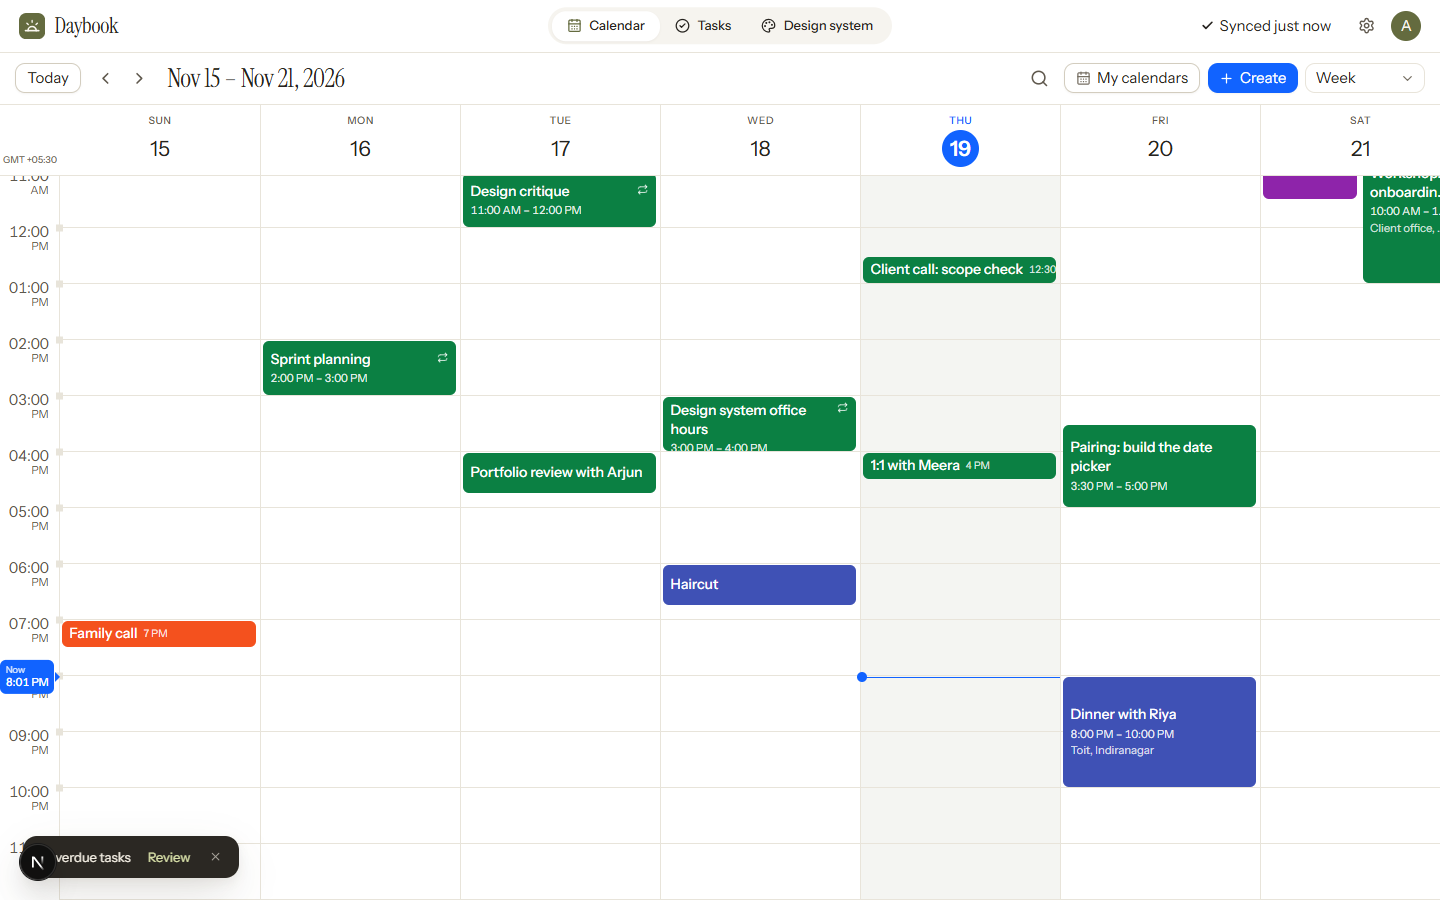
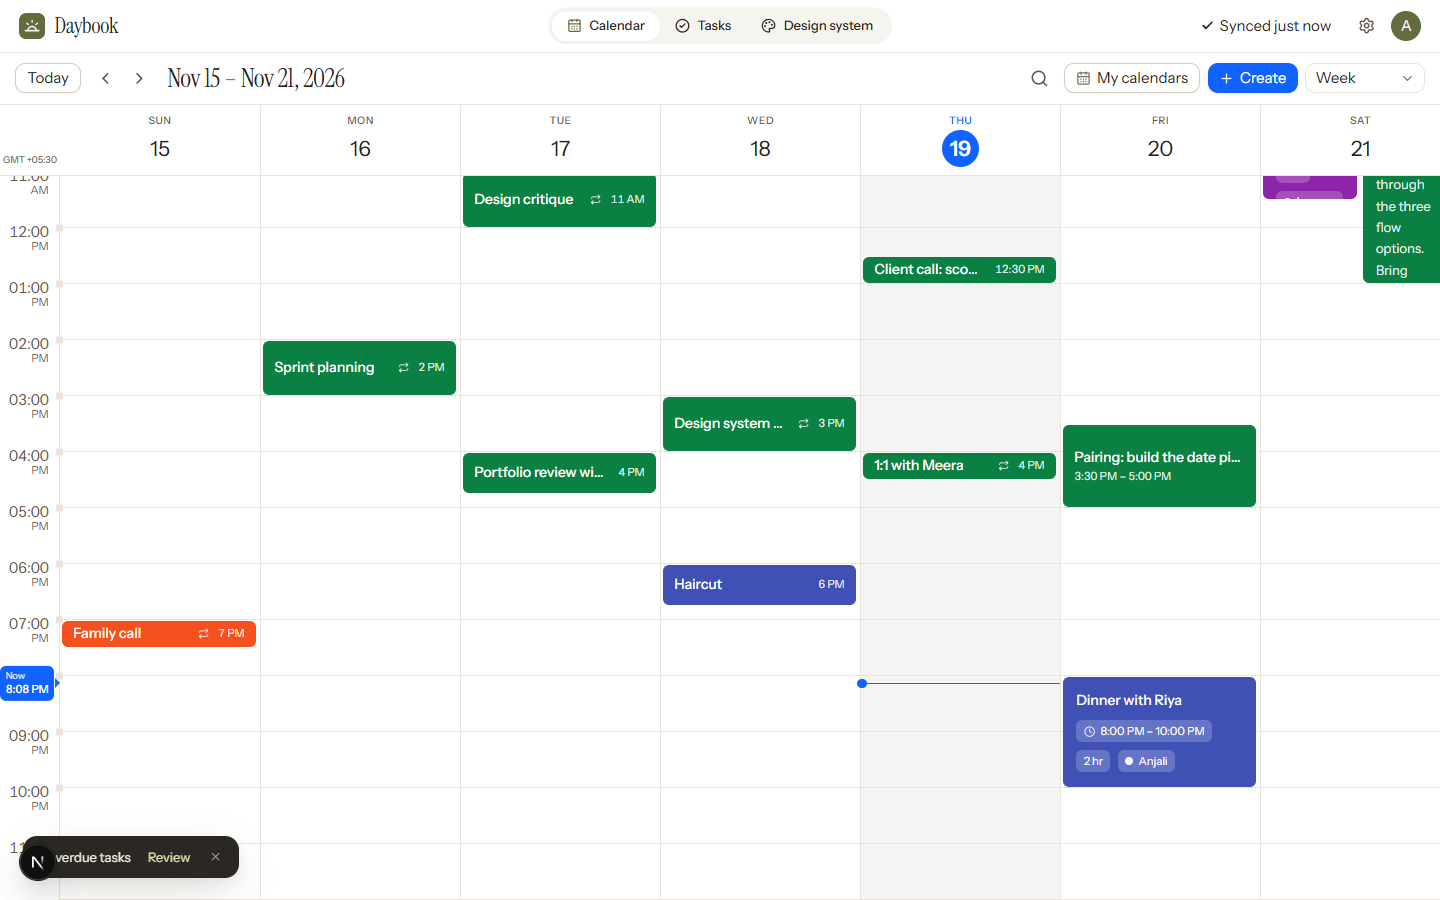
Shared event card, blue today in month view, no in-column Now label
Week and day views use one event card component so they match. The
month view marks today with a blue circle. Changelog updated.

diff --git a/components/calendar/TimeGrid.tsx b/components/calendar/TimeGrid.tsx
@@ -10,8 +10,9 @@ import { moveEvent, newDraft } from "@/lib/store/eventActions";
 import { useData } from "@/lib/store/data";
 import type { CalView, DateKey, EventInstance } from "@/lib/types";
 import { useDoneEventIds, useInstanceColor, useInstances, type Visible } from "./useCalendar";
-import { Lock, Repeat } from "lucide-react";
 import { DayHeaders } from "@/components/shell/DayHeaders";
+import { EventCardBody, eventCardClass, eventTier } from "./EventCard";
+import { evSurface, evTitle, evVars } from "./eventStyle";
 
 const isBanner = (i: EventInstance) => i.allDay || i.startDate !== i.endDate;
 const snap = (m: number, step = 15) => Math.round(m / step) * step;
@@ -21,15 +22,7 @@ type Drag =
   | { kind: "create"; day: number; a: number; b: number }
   | { kind: "move"; inst: EventInstance; day: number; start: number; dur: number };
 
-export function evVars(hex: string): React.CSSProperties {
-  return { ["--ev" as string]: hex };
-}
-
-/** Event titles use exactly the task card title style. */
-export const evTitle = "text-[0.9375rem] font-medium leading-snug";
-
-/** Event cards are the calendar's own colour, solid, with white text. */
-export const evSurface = "bg-[var(--ev)] text-on-solid hover:brightness-95";
+export { evSurface, evTitle, evVars } from "./eventStyle";
 
 export function TimeGrid({ view, anchor, visible }: { view: CalView; anchor: DateKey; visible: Visible }) {
   void view;
@@ -50,6 +43,9 @@ export function TimeGrid({ view, anchor, visible }: { view: CalView; anchor: Dat
   const setView = useUI((s) => s.setCalView);
   const defaultDuration = usePrefs((p) => p.defaultDuration);
   const h24 = usePrefs((p) => p.timeFormat) === "24";
+  const density = usePrefs((p) => p.density);
+  /** The grid hour height in px (matches --hour-h), so cards know how much room they have. */
+  const hourPx = density === "compact" ? 44 : density === "spacious" ? 68 : 56;
 
   const scrollRef = useRef<HTMLDivElement>(null);
   const colsRef = useRef<HTMLDivElement>(null);
@@ -300,6 +296,7 @@ export function TimeGrid({ view, anchor, visible }: { view: CalView; anchor: Dat
                     color={colorOf(p.inst)}
                     dim={drag?.kind === "move" && drag.inst.key === p.inst.key}
                     readOnly={readOnlyIds.has(p.inst.calendarId)}
+                    hourPx={hourPx}
                     onPointerDown={(e) => startMove(e, p.inst, p.top)}
                     onClick={(el) => {
                       if (suppressClick.current) return;
@@ -340,6 +337,7 @@ function EventBlock({
   color,
   dim,
   readOnly,
+  hourPx,
   onPointerDown,
   onClick,
 }: {
@@ -347,13 +345,14 @@ function EventBlock({
   color: string;
   dim: boolean;
   readOnly: boolean;
+  hourPx: number;
   onPointerDown: (e: React.PointerEvent) => void;
   onClick: (el: HTMLElement) => void;
 }) {
-  const fmt = useFmt();
   const { inst } = p;
   const done = useDoneEventIds().has(inst.event.id);
   const h = p.bottom - p.top;
+  const heightPx = (h / 60) * hourPx - 2;
   const widthPct = 100 / p.cols;
   return (
     <button
@@ -362,9 +361,8 @@ function EventBlock({
       onPointerDown={onPointerDown}
       onClick={(e) => onClick(e.currentTarget)}
       className={cn(
-        "absolute overflow-hidden rounded-sm px-2 text-left text-[0.8125rem] leading-tight outline-none transition-[background,opacity,box-shadow] focus-visible:ring-2 focus-visible:ring-accent",
-        h < 40 ? "flex items-center py-0" : "py-1",
-        evSurface,
+        "absolute transition-[background,opacity,box-shadow]",
+        eventCardClass(eventTier(heightPx)),
         dim && "opacity-35",
         readOnly ? "cursor-pointer" : inst.event.recurrence ? "cursor-pointer" : "cursor-grab active:cursor-grabbing"
       )}
@@ -377,21 +375,7 @@ function EventBlock({
         zIndex: 2 + p.col,
       }}
     >
-      {h < 40 ? (
-        // short events: one tidy line, "Title  9:00 AM"
-        <span className="flex items-center gap-1.5 whitespace-nowrap leading-none">
-          <span className={cn("truncate", evTitle, done && "line-through")}>{inst.title}</span>
-          <span className="tnum shrink-0 text-[0.6875rem] text-on-solid/85">{fmt.time(inst.start, { compact: true })}</span>
-        </span>
-      ) : (
-        <span className="flex items-start gap-1">
-          <span className={cn("line-clamp-2 flex-1", evTitle, done && "line-through")}>{inst.title}</span>
-          {inst.isRecurring && <Repeat className="mt-0.5 size-3 shrink-0 text-on-solid/85" aria-label="Repeats" />}
-          {readOnly && <Lock className="mt-0.5 size-3 shrink-0 text-on-solid/85" aria-label="Read only" />}
-        </span>
-      )}
-      {h >= 52 && <span className="tnum mt-0.5 block truncate text-xs text-on-solid/90">{fmt.timeRange(inst.start, inst.end)}</span>}
-      {h >= 66 && inst.event.location && <span className="mt-0.5 block truncate text-xs text-on-solid/80">{inst.event.location}</span>}
+      <EventCardBody inst={inst} done={done} heightPx={heightPx} readOnly={readOnly} />
     </button>
   );
 }

diff --git a/components/calendar/DayTimeline.tsx b/components/calendar/DayTimeline.tsx
@@ -1,16 +1,16 @@
 "use client";
-import { useEffect, useMemo, useRef, type ReactNode } from "react";
-import { Clock, MapPin } from "lucide-react";
+import { useEffect, useMemo, useRef } from "react";
 import { cn } from "@/lib/cn";
 import { zoned } from "@/lib/dates";
-import { useCalendarViews, useFmt, useNow, useToday, useTz } from "@/lib/hooks";
+import { useFmt, useNow, useToday, useTz } from "@/lib/hooks";
 import { byDay, layoutDay, type Placed } from "@/lib/layout";
 import { newDraft } from "@/lib/store/eventActions";
 import { usePrefs } from "@/lib/store/prefs";
 import { toRect, useUI } from "@/lib/store/ui";
 import type { DateKey, EventInstance } from "@/lib/types";
 import { useDoneEventIds, useInstanceColor, useInstances } from "./useCalendar";
-import { evSurface, evTitle, evVars } from "./TimeGrid";
+import { EventCardBody, eventCardClass, eventTier } from "./EventCard";
+import { evVars } from "./eventStyle";
 
 const isBanner = (i: EventInstance) => i.allDay || i.startDate !== i.endDate;
 
@@ -31,7 +31,6 @@ export function DayTimeline({ anchor }: { anchor: DateKey }) {
   const instances = useInstances(anchor, anchor);
   const colorOf = useInstanceColor();
   const doneIds = useDoneEventIds();
-  const cals = useCalendarViews();
   const openPopover = useUI((s) => s.openEventPopover);
   const openEditor = useUI((s) => s.openEventEditor);
   const scroller = useRef<HTMLDivElement>(null);
@@ -42,7 +41,6 @@ export function DayTimeline({ anchor }: { anchor: DateKey }) {
   const placed = useMemo(() => layoutDay(list.filter((i) => !isBanner(i)), anchor, tz), [list, anchor, tz]);
   const isToday = anchor === today;
   const nowMin = zoned(now, tz).minutes;
-  const calName = (id: string) => cals.find((c) => c.id === id)?.name ?? "";
 
   // open on the working day: a little before now when viewing today, otherwise 7 AM
   useEffect(() => {
@@ -61,43 +59,18 @@ export function DayTimeline({ anchor }: { anchor: DateKey }) {
 
   const hours = Array.from({ length: 24 }, (_, h) => h);
 
-  /** An event card. `mins` is its height on the timeline; short events show less. */
+  /** An event card: the same component the week view uses. `mins` is its length on the timeline. */
   const Card = ({ i, mins, className, style }: { i: EventInstance; mins: number; className?: string; style?: React.CSSProperties }) => {
-    const done = doneIds.has(i.event.id);
-    const duration = i.allDay ? 0 : Math.round((i.end - i.start) / 60000);
-    const short = mins < 45;
+    const heightPx = mins * 2 - 6; // an hour is 8rem, about 120px
     return (
       <button
         type="button"
         data-event
         onClick={(e) => openPopover(i, toRect(e.currentTarget.getBoundingClientRect()))}
         style={{ ...evVars(colorOf(i)), ...style }}
-        className={cn(
-          "overflow-hidden rounded-sm text-left outline-none focus-visible:ring-2 focus-visible:ring-accent",
-          evSurface,
-          short ? "flex items-center gap-2.5 px-3" : "p-3.5",
-          className
-        )}
+        className={cn(eventCardClass(eventTier(heightPx)), className)}
       >
-        {short ? (
-          <>
-            <span className={cn("min-w-0 truncate", evTitle, done && "line-through")}>{i.title}</span>
-            <span className="tnum ml-auto shrink-0 text-xs text-on-solid/90">{i.allDay ? "All day" : fmt.timeRange(i.start, i.end)}</span>
-          </>
-        ) : (
-          <span className="flex items-start gap-3">
-            <span className="min-w-0 flex-1">
-              <span className={cn("block truncate", evTitle, done && "line-through")}>{i.title}</span>
-              {mins >= 90 && i.event.description && <span className="mt-1 line-clamp-2 block text-sm leading-relaxed text-on-solid/90">{i.event.description}</span>}
-              <span className="mt-2.5 flex flex-wrap items-center gap-2 text-xs text-on-solid">
-                <Chip icon={<Clock className="size-3" />}>{i.allDay ? "All day" : fmt.timeRange(i.start, i.end)}</Chip>
-                {duration > 0 && <Chip>{duration >= 60 && duration % 60 === 0 ? `${duration / 60} hr` : `${duration} mins`}</Chip>}
-                <Chip dot>{calName(i.calendarId)}</Chip>
-                {i.event.location && <Chip icon={<MapPin className="size-3" />}>{i.event.location}</Chip>}
-              </span>
-            </span>
-          </span>
-        )}
+        <EventCardBody inst={i} done={doneIds.has(i.event.id)} heightPx={heightPx} />
       </button>
     );
   };
@@ -191,15 +164,5 @@ export function DayTimeline({ anchor }: { anchor: DateKey }) {
         </div>
       </div>
     </div>
-  );
-}
-
-function Chip({ children, icon, dot }: { children: ReactNode; icon?: ReactNode; dot?: boolean }) {
-  return (
-    <span className="inline-flex items-center gap-1.5 rounded-sm bg-on-solid/20 px-2 py-1">
-      {icon}
-      {dot && <span className="size-2 rounded-full bg-on-solid" />}
-      {children}
-    </span>
   );
 }

diff --git a/components/calendar/EventCard.tsx b/components/calendar/EventCard.tsx
@@ -1,0 +1,89 @@
+"use client";
+import type { ReactNode } from "react";
+import { Clock, Lock, MapPin, Repeat } from "lucide-react";
+import { cn } from "@/lib/cn";
+import { useCalendarViews, useFmt } from "@/lib/hooks";
+import type { EventInstance } from "@/lib/types";
+import { evSurface, evTitle } from "./eventStyle";
+
+/**
+ * The event card, shared by the week and day views so they always match.
+ * What it shows depends on how tall it is on screen, never on which view it is in.
+ */
+export type EventTier = "line" | "title" | "full";
+
+export function eventTier(heightPx: number): EventTier {
+  return heightPx < 64 ? "line" : heightPx < 104 ? "title" : "full";
+}
+
+export function eventCardClass(tier: EventTier): string {
+  return cn(
+    "overflow-hidden rounded-sm text-left outline-none focus-visible:ring-2 focus-visible:ring-accent",
+    evSurface,
+    tier === "line" ? "flex items-center gap-2.5 px-3" : tier === "title" ? "px-3 py-2.5" : "p-3.5"
+  );
+}
+
+export function EventCardBody({ inst, done, heightPx, readOnly }: { inst: EventInstance; done: boolean; heightPx: number; readOnly?: boolean }) {
+  const fmt = useFmt();
+  const cals = useCalendarViews();
+  const tier = eventTier(heightPx);
+  const calName = cals.find((c) => c.id === inst.calendarId)?.name ?? "";
+  const duration = inst.allDay ? 0 : Math.round((inst.end - inst.start) / 60000);
+  const range = inst.allDay ? "All day" : fmt.timeRange(inst.start, inst.end);
+  const icons = (
+    <>
+      {inst.isRecurring && <Repeat className="size-3 shrink-0 text-on-solid/85" aria-label="Repeats" />}
+      {readOnly && <Lock className="size-3 shrink-0 text-on-solid/85" aria-label="Read only" />}
+    </>
+  );
+  const title = <span className={cn("min-w-0 flex-1 truncate", evTitle, done && "line-through")}>{inst.title}</span>;
+
+  if (tier === "line") {
+    return (
+      <>
+        {title}
+        {icons}
+        <span className="tnum shrink-0 text-xs text-on-solid/90">{inst.allDay ? "All day" : fmt.time(inst.start, { compact: true })}</span>
+      </>
+    );
+  }
+  if (tier === "title") {
+    return (
+      <>
+        <span className="flex items-center gap-1.5">
+          {title}
+          {icons}
+        </span>
+        <span className="tnum mt-0.5 block truncate text-xs text-on-solid/90">{range}</span>
+      </>
+    );
+  }
+  return (
+    <>
+      <span className="flex items-center gap-1.5">
+        {title}
+        {icons}
+      </span>
+      {heightPx >= 150 && inst.event.description && <span className="mt-1 line-clamp-2 text-sm leading-relaxed text-on-solid/90">{inst.event.description}</span>}
+      <span className="mt-2.5 flex flex-wrap items-center gap-2 text-xs text-on-solid">
+        <Chip icon={<Clock className="size-3" />}>{range}</Chip>
+        {duration > 0 && <Chip>{duration >= 60 && duration % 60 === 0 ? `${duration / 60} hr` : `${duration} mins`}</Chip>}
+        {calName && (
+          <Chip dot>{calName}</Chip>
+        )}
+        {inst.event.location && heightPx >= 130 && <Chip icon={<MapPin className="size-3" />}>{inst.event.location}</Chip>}
+      </span>
+    </>
+  );
+}
+
+function Chip({ children, icon, dot }: { children: ReactNode; icon?: ReactNode; dot?: boolean }) {
+  return (
+    <span className="inline-flex max-w-full items-center gap-1.5 rounded-sm bg-on-solid/20 px-2 py-1">
+      {icon}
+      {dot && <span className="size-2 shrink-0 rounded-full bg-on-solid" />}
+      <span className="truncate">{children}</span>
+    </span>
+  );
+}

diff --git a/components/calendar/MonthView.tsx b/components/calendar/MonthView.tsx
@@ -85,8 +85,10 @@ export function MonthView({ anchor, visible }: { anchor: DateKey; visible: Visib
                   if (!mobile) setView("day");
                 }}
                 className={cn(
-                  "mx-auto flex h-6 min-w-6 items-center justify-center rounded-full px-1.5 text-[0.8125rem] md:mx-0 md:mb-0.5",
-                  isToday ? "bg-accent font-semibold text-on-accent" : inMonth ? "text-text hover:bg-surface-3" : "text-text-3 hover:bg-surface-3"
+                  "mx-auto flex w-fit items-center justify-center rounded-full text-[0.8125rem] md:mx-0 md:mb-0.5",
+                  isToday
+                    ? "h-7 min-w-7 bg-semantic-primary px-1 font-semibold text-semantic-on-primary"
+                    : cn("h-6 min-w-6 px-1.5", inMonth ? "text-text hover:bg-surface-3" : "text-text-3 hover:bg-surface-3")
                 )}
                 aria-label={fmt.dayLong(d)}
               >

diff --git a/components/calendar/eventStyle.ts b/components/calendar/eventStyle.ts
@@ -1,0 +1,12 @@
+import type { CSSProperties } from "react";
+
+/** Sets the calendar colour an event card is painted with. */
+export function evVars(hex: string): CSSProperties {
+  return { ["--ev" as string]: hex };
+}
+
+/** Event titles use exactly the task card title style. */
+export const evTitle = "text-[0.9375rem] font-medium leading-snug";
+
+/** Event cards are the calendar's own colour, solid, with white text. */
+export const evSurface = "bg-[var(--ev)] text-on-solid hover:brightness-95";

diff --git a/docs/changelog/CHANGELOG.md b/docs/changelog/CHANGELOG.md
@@ -9,7 +9,7 @@ A running record of every change requested, newest first, with screenshots. It l
 
 ---
 
-## 2026-11-19 — Timeline day and week views (branch `day-view-timeline`, not on main)
+## 2026-11-19 — Timeline day and week views, blue today in the month view
 
 **Asked for:** the day view in the style of the reference image (a timeline with a rail, big times and outlined cards), with every hour still shown. Kept on its own branch so it can be dropped. Follow-ups: no "Done" label or check mark, the UI font for the times, equal hour spacing, no Open button, a blue Now tag with the time under it, before the rail.
 
@@ -18,16 +18,20 @@ A running record of every change requested, newest first, with screenshots. It l
 - Events are cards in the same solid calendar colour with white text as in the week view, placed at their real time inside the hour and sized by duration. Short events show one line (title and time); longer ones show the title, the description when there is room, and tags for time range, duration, calendar and location. Overlapping events sit side by side.
 - Completed events keep the struck-through title, with no label. Cards have no small square, and the current hour is not highlighted.
 - **Week view uses the same design language:** the hour column has the same `07:00` / `PM` labels, a rail with square markers and the blue "Now" tag with the time under it; the "Now" line is the primary blue; event cards have the same square corners. Dragging to create and move events still works in the week view. On a phone the hour labels shrink to fit.
+- Week and day event cards are now one shared component, so they always match. What a card shows depends on its height: one line (title and start time) for short events, title plus time range for medium ones, and title plus tags for time range, duration and calendar for tall ones. Recurring events show the repeat icon in both views.
+- The month view marks today with a blue circle around the date, like the "19" at the top of the week view, instead of the olive pill.
+- A small "Now" label next to the line inside today's column was tried and removed. The blue "Now" tag with the time stays on the hour column.
 - Known trade-off: in the week view the "Now" tag sits on the narrow hour column, so it can overlap the nearest hour label for a few minutes either side of the hour.
 - A blue "Now" tag (the primary colour) with the time stacked under it sits to the left of the rail, with a short line to a dot on the rail.
 - Clicking an empty spot opens a new event at that time (30-minute steps). All-day events sit in an "All day" row at the top.
 - Not in this version: dragging to create or move events in the day view (the week view still has it).
 
-**Files:** `components/calendar/DayTimeline.tsx` (new), `components/calendar/CalendarScreen.tsx`, `components/calendar/TimeGrid.tsx`
+**Files:** `components/calendar/DayTimeline.tsx` (new), `components/calendar/EventCard.tsx` (new), `components/calendar/eventStyle.ts` (new), `components/calendar/CalendarScreen.tsx`, `components/calendar/TimeGrid.tsx`, `components/calendar/MonthView.tsx`
 
 **Screenshots** (`screenshots/2026-11-19-day-timeline/`)
 ![Day timeline](screenshots/2026-11-19-day-timeline/day-timeline-a.png)
 ![Week in the same style](screenshots/2026-11-19-day-timeline/week-timeline-style.png)
+![Month, today as a blue circle](screenshots/2026-11-19-day-timeline/month-today-circle.png)
 
 ---
 
